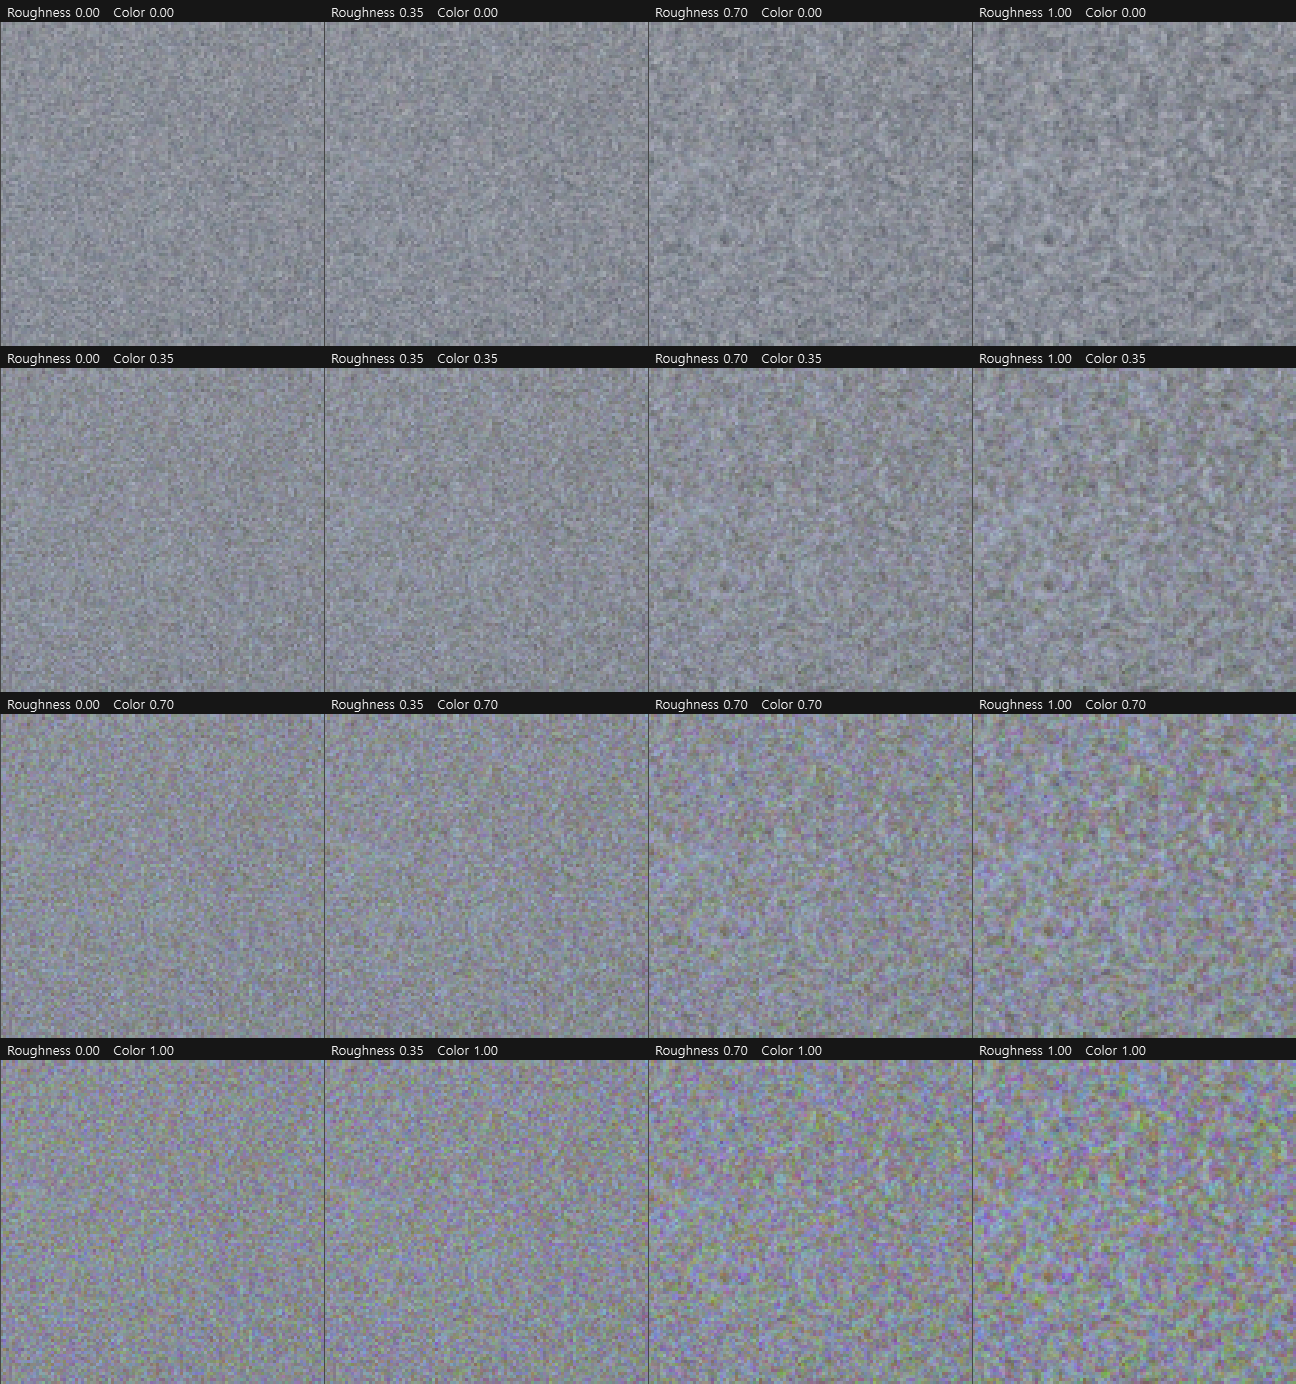
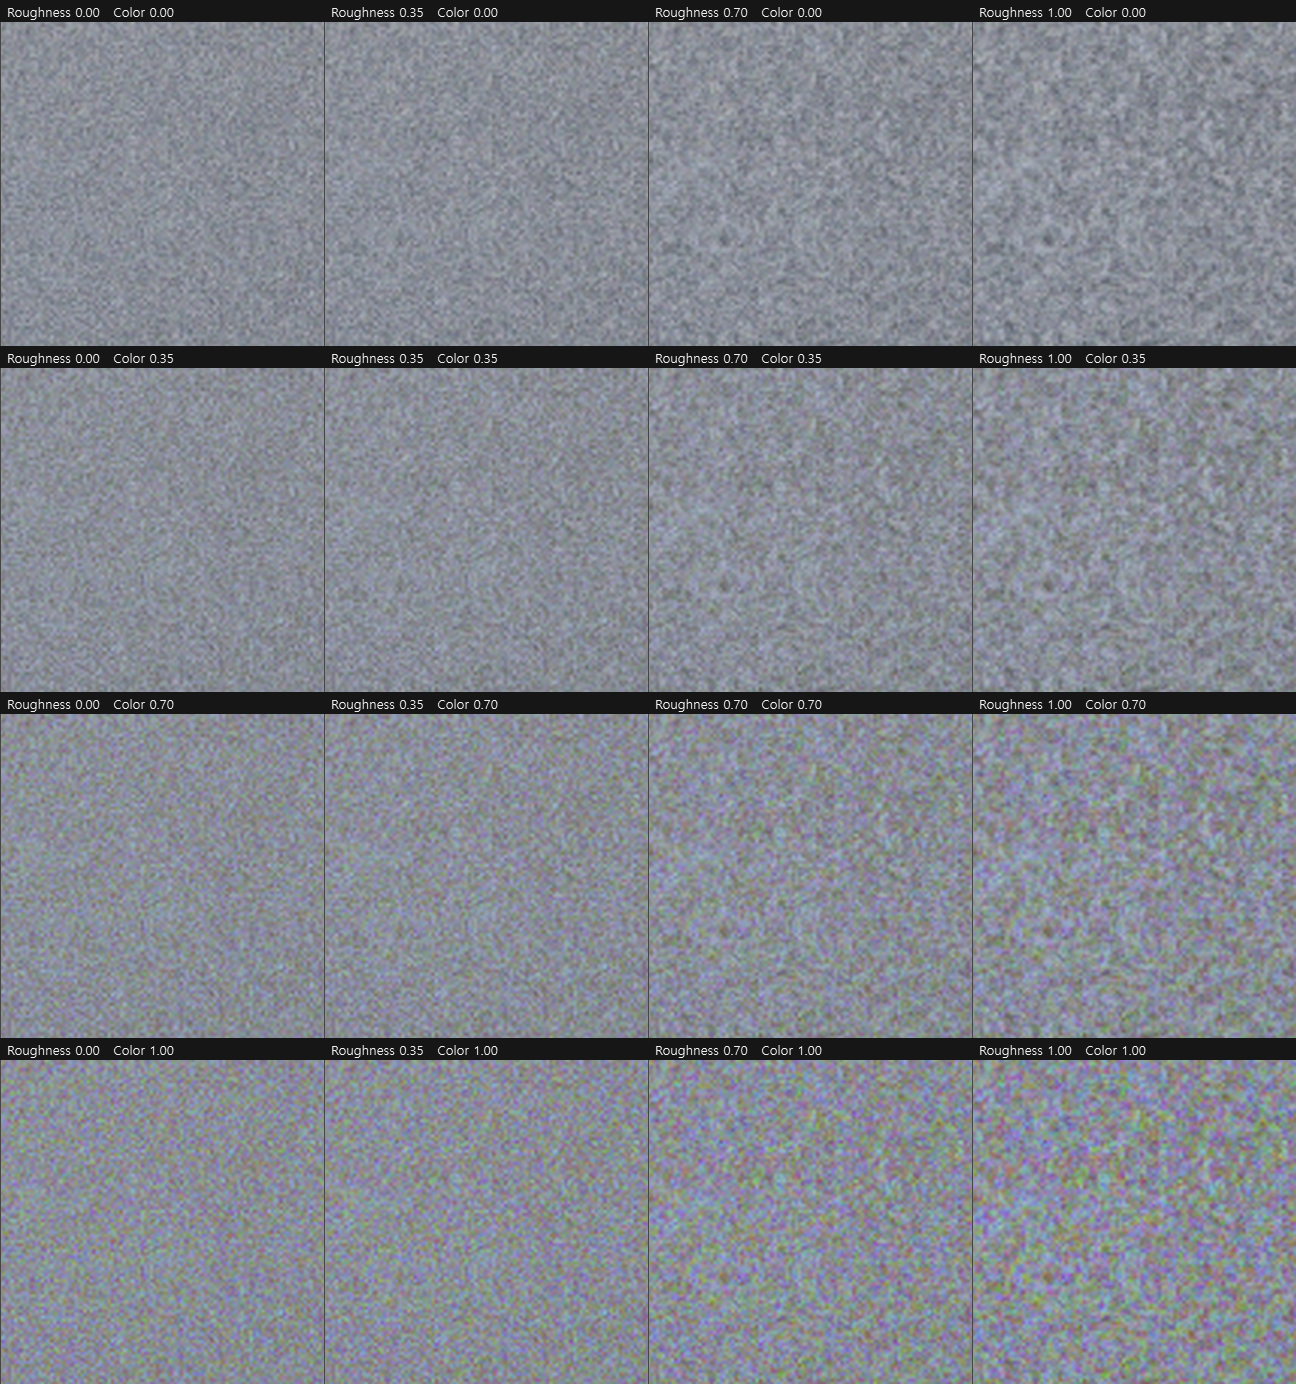
Draw the grain figures with interpolated magnification, not nearest
The comparison figures were magnified with np.repeat, which turns every pixel
into a hard square and made the grain look far more angular than it is. That
misled a judgement about particle shape, so the figures are regenerated with
cubic interpolation and the pitfall is recorded next to the generator notes.

For the record, the shape itself was measured and left alone. The angular
profile of the field's 2D autocorrelation is nearly flat -- 0.112 / 0.105 /
0.114 at 0, 45 and 90 degrees at radius 2.5px -- because three layers at
different cell sizes, three octaves and the sub-pixel average wash the square
lattice out statistically. The film scans cannot serve as a shape reference
here: their anisotropy is a separable sharpening signature, negative along the
axes and zero on the diagonal.

There is a real effect at export resolution, where the cell is 2.15px and
individual cells can read as blocks (the proxy is 0.88px, so they cannot).
Softening the cell edges fixes that but gives back the crispness and density
just gained -- a ramp of 1.5 costs 15% sigma and moves lag1 from 0.217 to 0.294,
away from the measured target -- so it was not applied.

diff --git a/docs/film_grain.md b/docs/film_grain.md
@@ -592,6 +592,14 @@ Export(`pipeline._grain_field`)는 셰이더의 `hash12`/`valueNoise` 를 numpy 
 ## 부록: 그림 재현
 
 이 문서의 그림들은 클린 렌더 1회 후 그레인 단계만 바꿔 합성해 만들었다(매번 `render_full` 하면
-rawpy 디코드가 미세하게 비결정적이라 패널 간 비교가 성립하지 않는다). 생성 스크립트는 개인
+rawpy 디코드가 미세하게 비결정적이라 패널 간 비교가 성립하지 않는다).
+
+⚠ **확대는 반드시 보간으로 한다.** 최근접 확대(`np.repeat`)로 뽑으면 **모든 픽셀이 하드
+사각형**이 되어 그레인이 실제보다 각져 보인다 — 한동안 그렇게 뽑아 "입자가 각지다"는 오판을
+불렀다. 참고로 자기상관의 각도 프로파일을 재보면 우리 필드는 **거의 등방적**이다(반경 2.5px 에서
+0° 0.112 / 45° 0.105 / 90° 0.114). 크기가 다른 3층 × 3옥타브 × 서브픽셀 평균이 겹치며 정사각
+격자가 통계적으로 씻겨나가기 때문이다. 다만 export 해상도에서는 셀이 2.15px 라 개별 셀이 블록으로
+읽힐 수 있는데(프록시는 0.88px 라 안 보임), 경계를 완만하게 하면 실측으로 얻은 곱기·진하기가
+후퇴하므로(램프 s=1.5 에서 σ −15%, lag1 0.217→0.294) 손대지 않았다. 생성 스크립트는 개인
 사진 경로에 묶여 있어 저장소에 포함하지 않았다 — `pipeline._grain_field` 와 셰이더 12단계의
 합성식만 그대로 따라 하면 재현된다.
